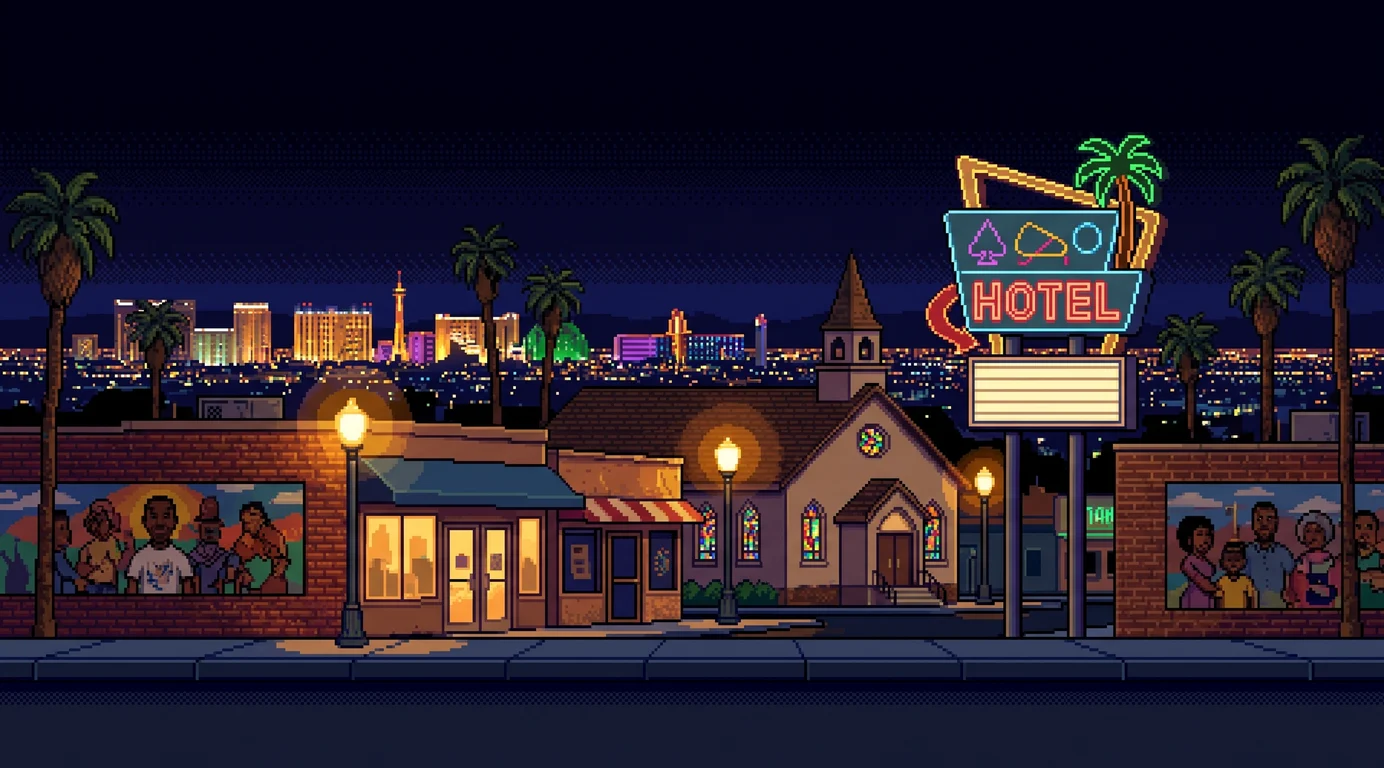
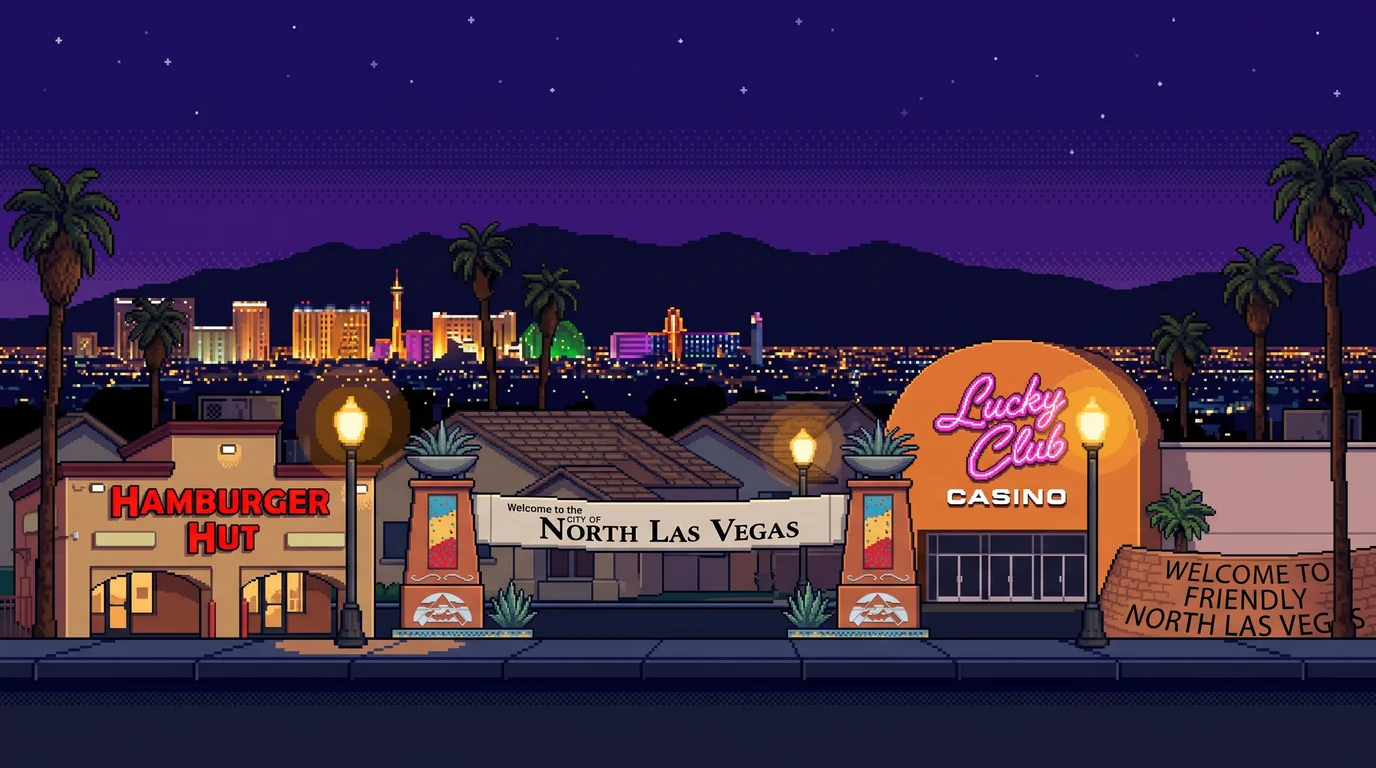
Chapter 2: real North Las Vegas, tighter story
- Northtown background from Miles's photos (City of North Las Vegas arch, Hamburger Hut, Lucky Club, Welcome to Friendly NLV)
- New opening scene with the Friendly North Las Vegas sign; tunnel scene cropped clean
- Story: the system lies on him once North Star is out; the tunnel community follows the North Star light out; block party tease
- Real signs repeat without mirroring

Claude-Session: https://claude.ai/code/session_01XBS6QcQ7ZXqCrN9j5KPpvs

diff --git a/index.html b/index.html
@@ -508,7 +508,7 @@ function updateMusic(dt) {
 const AR = {"bossLaugh":[0,0,134,236],"bossIdle":[136,0,120,235],"bossThrow":[258,0,175,235],"bossContract":[435,0,120,231],"bossRun1":[557,0,151,229],"bossRun2":[710,0,141,227],"bossHurt":[853,0,125,225],"climb1":[980,0,86,214],"climb2":[1068,0,82,214],"clone1":[1152,0,128,212],"clone2":[1282,0,124,212],"auntieA":[1408,0,125,210],"auntieB":[1535,0,118,210],"victory":[1655,0,89,207],"fanB":[1746,0,131,204],"djA":[1879,0,99,204],"djB":[1980,0,105,204],"singerB":[2087,0,125,204],"c1djB":[2214,0,115,203],"c1auntieA":[2331,0,92,198],"c1auntieB":[2425,0,109,198],"oldA":[2536,0,92,197],"c1singerB":[2630,0,103,193],"elevator":[2735,0,172,192],"c1fanB":[2909,0,107,191],"c1djA":[3018,0,77,190],"c1singerA":[3097,0,76,188],"fanA":[3175,0,79,184],"singerA":[3256,0,112,184],"c1fanA":[3370,0,79,184],"c1girl":[3451,0,107,184],"c1kid":[3560,0,81,178],"doorOpen":[3643,0,119,174],"doorExit":[3764,0,82,168],"doorLocked":[3848,0,116,160],"bossDead":[0,238,140,155],"kidBoy":[142,238,92,131],"ladder":[236,238,35,120],"kidGirl":[273,238,85,118],"safeOpen":[360,238,99,108],"safe":[461,238,93,99],"cloneDead":[556,238,172,84],"cash":[730,238,67,64],"reel":[799,238,66,64],"star":[867,238,63,63],"record":[932,238,66,63],"contract2":[1000,238,54,58],"coin1":[1056,238,24,57],"coin3":[1082,238,33,57],"contract0":[1117,238,58,56],"contract3":[1177,238,58,56],"cd":[1237,238,56,56],"coin0":[1295,238,54,54],"coin2":[1351,238,54,54],"contract1":[1407,238,56,54],"card":[1465,238,69,42],"girder":[1536,238,109,32],"shades":[1647,238,72,15]};
 const AR2 = {"curatorAttack":[0,0,220,260],"curatorIdle":[222,0,106,240],"blogger1":[330,0,138,220],"blogger2":[470,0,146,220],"nerd1":[618,0,148,220],"nerd2":[768,0,148,220],"techbro1":[918,0,148,220],"techbro2":[1068,0,148,220],"curatorHurt":[1218,0,136,216],"curatorDead":[1356,0,139,172],"bloggerDead":[1497,0,175,102],"techbroDead":[1674,0,172,100],"nerdDead":[1848,0,190,87]};   // Chapter 2 sprites (enemies, THE CURATOR)
 const rectOf = n => AR[n] || AR2[n], atlasOf = n => (AR[n] ? IMG.atlas : IMG.atlas2);
-const BG_W = {"studio": 1380, "fremont": 1476, "arts": 1392, "westside": 1384, "strip": 1376, "boulder": 1384, "tunnels": 1696, "lair": 1280, "northtown": 1384}; // background widths in screen pixels
+const BG_W = {"studio": 1380, "fremont": 1476, "arts": 1392, "westside": 1384, "strip": 1376, "northtown": 1376, "boulder": 1384, "tunnels": 1696, "lair": 1280}; // background widths in screen pixels
 const sprW = n => rectOf(n)[2] / SCALE, sprH = n => rectOf(n)[3] / SCALE;
 function spr(n, x, y, flip) {
   const im = atlasOf(n); if (!im || !ready(im)) return;
@@ -1283,18 +1283,19 @@ const SIGNED_SLIDES = [
   { img: 'scene_signed2', pan: -1, speaker: 'THE CEO', text: "YOU'LL NEVER GET OUT OF THIS CONTRACT." },
 ];
 const C2_SLIDES = [
-  { img: 'scene_c2_open1', pan: 1, text: 'THE MASTERS ARE BACK. BUT OVERNIGHT, EVERY BLOG IN THE CITY IS LYING ON HIS NAME.' },
-  { img: 'scene_c2_open1', pan: -1, text: 'FRAUD. CANCELED. CAREER OVER. EVERY RUMOR TRACES BACK TO ONE STORM DRAIN IN NORTHTOWN.' },
-  { img: 'scene_c2_open2', pan: 1, text: 'SOMEBODY IS RUNNING THE HATE FROM UNDER THE CITY. THEY CALL HIM THE CURATOR.' },
-  { img: 'scene_c2_open2', pan: -1, text: 'HE NEVER COMES OUTSIDE. TIME TO DRAG HIM INTO THE LIGHT.' },
+  { img: 'scene_c2_open1', pan: 1, text: 'NORTH STAR IS OUT. THE CITY IS PLAYING IT. AND THE SYSTEM NEVER SIGNED OFF ON THAT.' },
+  { img: 'scene_c2_open1', pan: -1, text: 'SO THE MACHINE STARTS TALKING. BAD REVIEWS. FAKE STORIES. HEADLINES FROM PEOPLE WHO NEVER PRESSED PLAY.' },
+  { img: 'scene_c2_open2', pan: 1, text: 'EVERY LIE LOADS FROM THE TUNNELS UNDER THE CITY, WHERE THE CURATOR DECIDES WHAT PEOPLE THINK.' },
+  { img: 'scene_c2_open2', pan: -1, text: 'HE NEVER COMES OUTSIDE. SO MILES GOES UNDERGROUND.' },
 ];
 const C2_BOSS_SLIDES = [
-  { img: 'bg_lair', pan: 1, text: 'AT THE END OF THE TUNNELS: A LOCKED GATE, AND A WALL OF SCREENS.' },
-  { img: 'bg_lair', pan: -1, speaker: 'THE CURATOR', red: true, text: "WHO LET YOU DOWN HERE? I DECIDE WHAT THE WORLD THINKS OF YOU." },
+  { img: 'bg_lair', pan: 1, text: 'AT THE END OF THE TUNNELS: A LOCKED GATE. BEHIND IT, A WALL OF SCREENS.' },
+  { img: 'bg_lair', pan: -1, speaker: 'THE CURATOR', red: true, text: "NOBODY HEARS A SONG TILL I SAY IT'S GOOD. AND I SAY YOU'RE FINISHED." },
 ];
 const C2_END_SLIDES = [
-  { img: 'scene_c2_end1', pan: 1, text: 'DAYLIGHT HITS THE CURATOR. HIS SCREENS GO DARK. THE LIES STOP LOADING.' },
-  { img: 'scene_c2_end2', pan: -1, text: 'MILES WALKS OUT OF THE TUNNELS AT SUNRISE. NORTHTOWN WAS WAITING FOR HIM.' },
+  { img: 'scene_c2_end1', pan: 1, text: 'DAYLIGHT HITS THE CURATOR. THE SCREENS GO DARK. THE LIES STOP LOADING.' },
+  { img: 'scene_c2_end1', pan: -1, text: 'DOWN IN THE TUNNELS, THE PEOPLE WHO LIVE THERE SEE IT: THE NORTH STAR, SHINING AT THE WAY OUT.' },
+  { img: 'scene_c2_end2', pan: 1, text: 'THEY FOLLOW HIM UP INTO THE SUNRISE. NORTHTOWN IS WAITING, AND WORD IS OUT: BLOCK PARTY TONIGHT.' },
 ];
 let slideSet = SLIDES, slideDone = () => {};
 function playSlides(set, done) { slideSet = set; slideDone = done; crawlPage = 0; setState('crawl'); }
@@ -1366,13 +1367,14 @@ function nextCrawl() {
 }
 
 /* ---------------- drawing ---------------- */
+const NO_FLIP = new Set(['northtown', 'boulder']);   // real signs: repeat them, never mirror the lettering
 function drawBg(theme, cx, alpha = 1) {
   const im = IMG['bg_' + theme]; if (!ready(im)) { rect('#0a0618', 0, 0, W, H); return; }
   const bw = BG_W[theme] / SCALE, off = cx * 0.2;
   ctx.globalAlpha = alpha;
   for (let i = Math.floor(off / bw); i <= Math.floor((off + W) / bw); i++) {
     const x = snap(i * bw - off);
-    if (i % 2) { ctx.save(); ctx.translate(x + bw, 0); ctx.scale(-1, 1); ctx.drawImage(im, 0, 0, bw, H); ctx.restore(); }
+    if (i % 2 && !NO_FLIP.has(theme)) { ctx.save(); ctx.translate(x + bw, 0); ctx.scale(-1, 1); ctx.drawImage(im, 0, 0, bw, H); ctx.restore(); }
     else ctx.drawImage(im, x, 0, bw, H);
   }
   ctx.globalAlpha = 1;
@@ -1702,7 +1704,7 @@ function render() {
   if (state === 'ch2done') {
     drawCover(IMG.scene_c2_end2, 0.15);
     text('CHAPTER 2 COMPLETE', W / 2, 10, '#ffcc33', 16, 'center');
-    textBox(['THE UNDERGROUND IS CLEAR. THE LIES ARE DOWN.', 'COINS ' + totals.coins + '  ·  NEXT: CHAPTER 3 · THE BOT FARMS'], 140, '#fff2a8');
+    textBox(['THE UNDERGROUND FOLLOWED THE NORTH STAR OUT.', 'COINS ' + totals.coins + '  ·  NEXT: CHAPTER 3 · THE BOT FARMS'], 140, '#fff2a8');
     if (blink() && stateT > 1.5) text(TOUCH ? 'TAP JUMP: BACK TO HQ' : 'PRESS JUMP: BACK TO HQ', W / 2, 180, '#f3ead8', 8, 'center');
     return;
   }

diff --git a/art-src/batch3/build_ch2.py b/art-src/batch3/build_ch2.py
@@ -38,7 +38,9 @@ meta['bgw'] = bgw; meta['ground'] = ground
 # ---- story scenes: 5:3, like Chapter 1 ----
 for name in ['scene-c2-open1', 'scene-c2-open2', 'scene-c2-end1', 'scene-c2-end2']:
     src = name if os.path.exists(SRC + name + '.png') else name + '-v1'
-    arr = raw(src).astype(np.uint8); H, W = arr.shape[:2]
+    arr = raw(src).astype(np.uint8)
+    if src == 'scene-c2-open2-v1': arr = arr[190:]   # cut the skyline strip with the wrong (Henderson) sign off the top
+    H, W = arr.shape[:2]
     w = round(H * 5 / 3); h = H; y0 = 0
     if w > W: w = W; h = round(W * 3 / 5); y0 = (H - h) // 2
     x0 = (W - w) // 2
